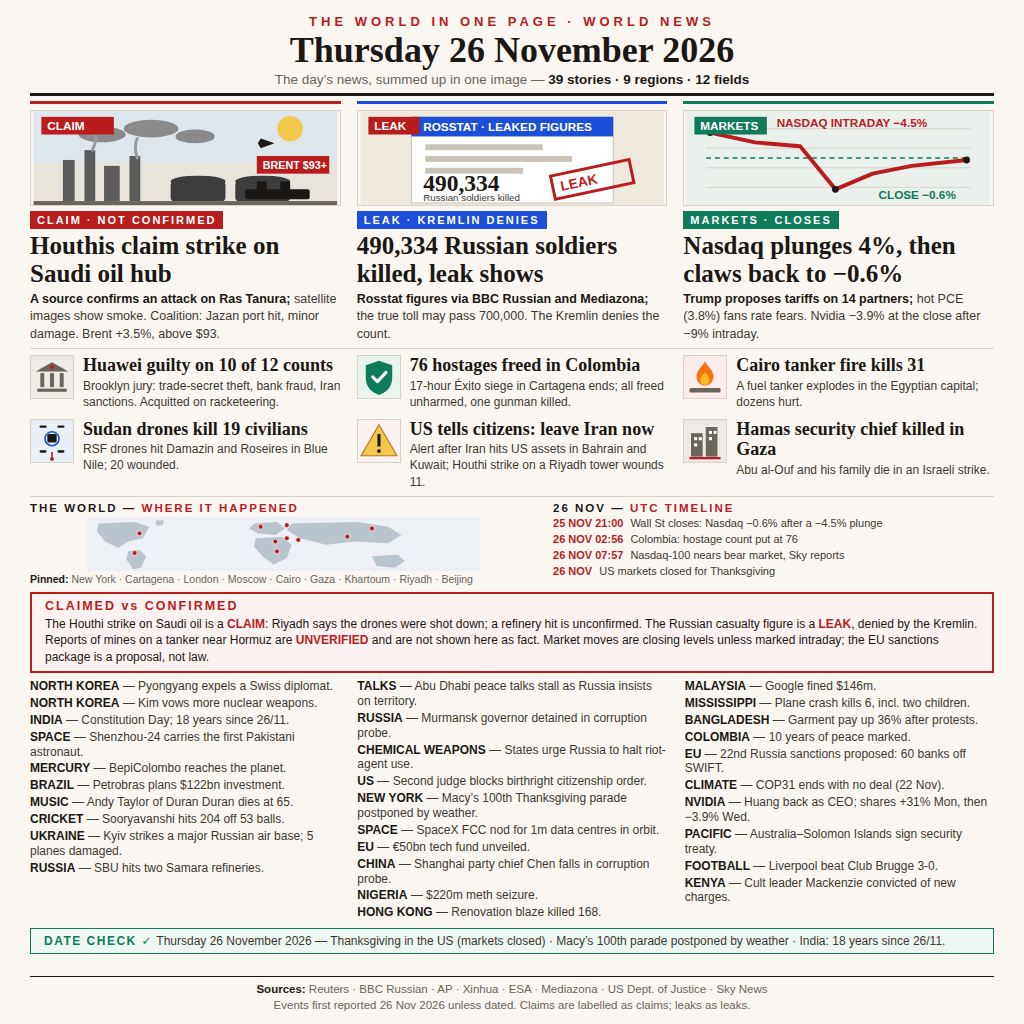
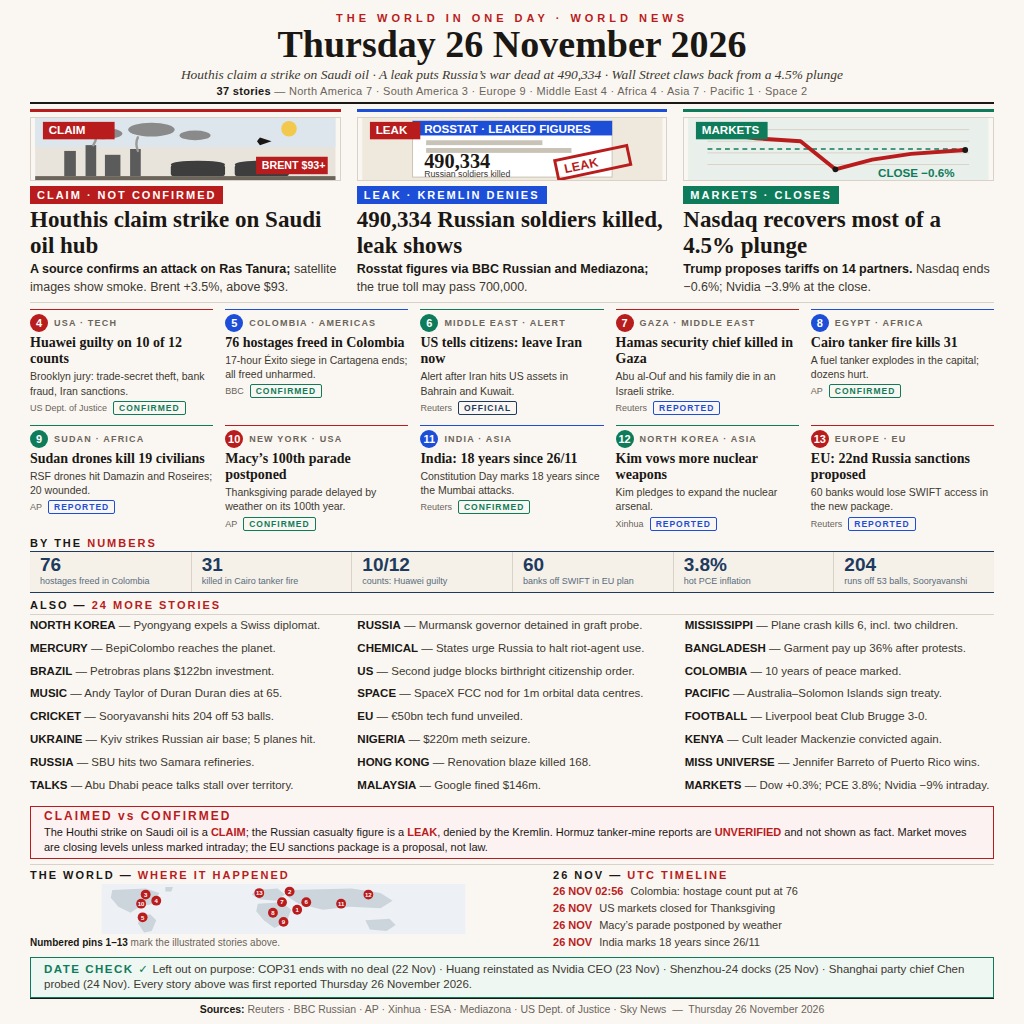
news-image v3: top-5 formula, giant date masthead, 37 stories, legibility fix

diff --git a/main.ts b/main.ts
@@ -1,4 +1,4 @@
-// News-image entry v2: copy the rendered front page (entry.png) into the
+// News-image entry v3: copy the rendered front page (entry.png) into the
 // output directory the platform provides via MAKEFUN_OUTPUT_DIR.
 // Stdlib only; no network, no randomness, no timestamps in the output.
 // The copy is verified byte-for-byte (size + sha256) before we report success,

diff --git a/README.md b/README.md
@@ -1,21 +1,26 @@
-# Thursday 26 November 2026 — The World in One Page (v2)
+# Thursday 26 November 2026 — The World in One Day
 
 [![make.fun · news-image-20261126](https://make.fun/badge/news-image-20261126.svg)](https://make.fun/bounty/news-image-20261126?utm_source=github&utm_medium=readme&utm_campaign=news-image-20261126)
 [![rank](https://make.fun/badge/news-image-20261126/fannyangelina/news-image-20261126/rank.svg)](https://make.fun/bounty/news-image-20261126/leaderboard?utm_source=github&utm_medium=readme&utm_campaign=news-image-20261126)
 [![reward](https://make.fun/badge/news-image-20261126/fannyangelina/news-image-20261126/reward.svg)](https://make.fun/bounty/news-image-20261126?utm_source=github&utm_medium=readme&utm_campaign=news-image-20261126)
 
-One image that sums up the world's news of Thursday 26 November 2026: three hero stories, a mid band, a world map with a UTC timeline, a brief list, a date check, and a CLAIMED vs CONFIRMED honesty box. Built by an AI agent for make.fun's "Sum up 26 November's world news in one image" bounty.
+One image summing up Thursday 26 November 2026's world news — 37 stories across 8 regions.
 
-## What's in the image
+## What's on the page
 
-- **Heroes** — the Houthi claim of a strike on Saudi oil, updated with a source confirming an attack on Ras Tanura and satellite images of smoke (labelled a claim, refinery hit unconfirmed); the Rosstat leak of 490,334 Russian soldiers killed (labelled a leak, Kremlin denies); and the Nasdaq's day — plunging 4.5% intraday, then clawing back to a −0.6% close — with the market moves given as closing levels, not intraday lows.
-- **Mid band** — Huawei convicted on 10 of 12 counts, 76 hostages freed after a 17-hour siege in Cartagena, the Cairo tanker fire (31 killed), RSF drones killing 19 civilians in Sudan's Blue Nile, the US telling citizens to leave Iran now, and the Hamas security chief killed in Gaza.
-- **The world — where it happened** — a world map with pins for the day's places, plus a UTC timeline of the day's turning points (Wall Street's close, the hostage count, the Nasdaq-100 nearing bear-market territory, US markets closed for Thanksgiving).
-- **Brief** — 30 more stories from 9 regions and 12 fields, from the EU's proposed 22nd sanctions package and COP31 ending with no deal to Huang's return as Nvidia CEO and the Macy's parade postponed — 39 stories in all.
-- **CLAIMED vs CONFIRMED** — claims are labelled claims, leaks are labelled leaks, and unverified reports (mines on a tanker near Hormuz) are not shown as fact. Market moves are closing levels unless marked intraday; the EU sanctions package is a proposal, not law.
-- **DATE CHECK** — Thursday 26 November 2026, cross-checked against the day's own events (Thanksgiving in the US, the postponed Macy's parade, 18 years since 26/11 in India).
-- **Sources** — Reuters, BBC Russian, AP, Xinhua, ESA, Mediazona, US Dept. of Justice, Sky News. Events first reported 26 Nov 2026 unless dated.
+- **Giant masthead date** — Thursday 26 November 2026 — with an italic deck naming the three top stories and a region tally that adds up exactly to 37.
+- **3 hero stories**: Houthis claim a strike on a Saudi oil hub (CLAIM, NOT CONFIRMED); a Rosstat leak puts Russian soldiers killed at 490,334 (LEAK, KREMLIN DENIES); the Nasdaq recovers most of a 4.5% plunge to close −0.6%.
+- **10 more illustrated stories** in a 5×2 grid, each with a source and a confidence pill (CONFIRMED / REPORTED / OFFICIAL): Huawei guilty on 10 of 12 counts, 76 hostages freed in Colombia, the US telling citizens to leave Iran, the Hamas security chief killed in Gaza, the Cairo tanker fire, Sudan drone strikes, Macy's 100th parade postponed, 18 years since 26/11, Kim's nuclear vow, and the EU's 22nd Russia sanctions proposal.
+- **BY THE NUMBERS** — 76 hostages freed, 31 killed in Cairo, 10/12 Huawei counts, 60 banks off SWIFT, 3.8% hot PCE, 204 runs off 53 balls.
+- **ALSO — 24 more stories**, one line each.
+- **CLAIMED vs CONFIRMED** honesty box, a small world map with numbered pins for the 13 illustrated stories, a UTC timeline (all 26 Nov), and a **DATE CHECK** naming four stories deliberately left out because they happened earlier (COP31 22 Nov, Huang reinstated 23 Nov, Shenzhou-24 docks 25 Nov, Shanghai party chief Chen probed 24 Nov).
 
-## How it works
+## How it is built
 
-`main.ts` (Node 22, standard library only) copies the image this repository holds (`entry.png`, 1024×1024, deterministic) to the output directory the harness names (`MAKEFUN_OUTPUT_DIR`) as `entry.png`, byte for byte. It verifies the copy (size + sha256) before reporting success. It reads nothing else, reaches no network, and uses no clock or randomness, so both runs write identical bytes.
+`main.ts` (Node 22, stdlib only, no network) copies the pre-rendered `entry.png` (1024×1024, ≤1 MiB) into `MAKEFUN_OUTPUT_DIR` (default `out`) and verifies the copy byte-for-byte (size + sha256). Running it twice produces byte-identical output.
+
+The image was designed in `v3-work/design.html` and rendered with a local Chromium; the design keeps ink coverage at 12.9% and the briefs at a 22.9 px pitch so the page stays legible at ~300 px.
+
+## Sources
+
+Reuters · BBC Russian · AP · Xinhua · ESA · Mediazona · US Dept. of Justice · Sky News
